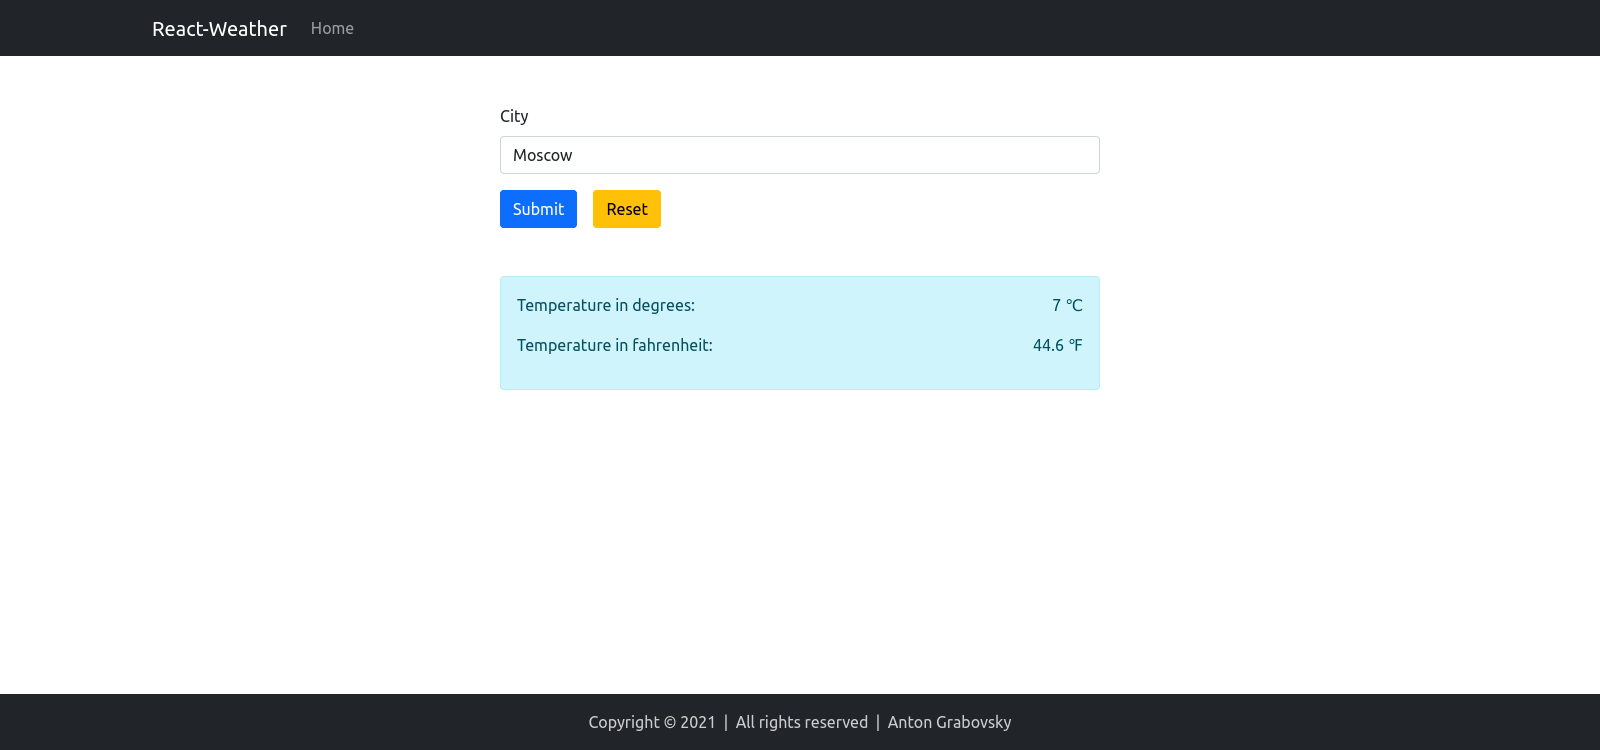
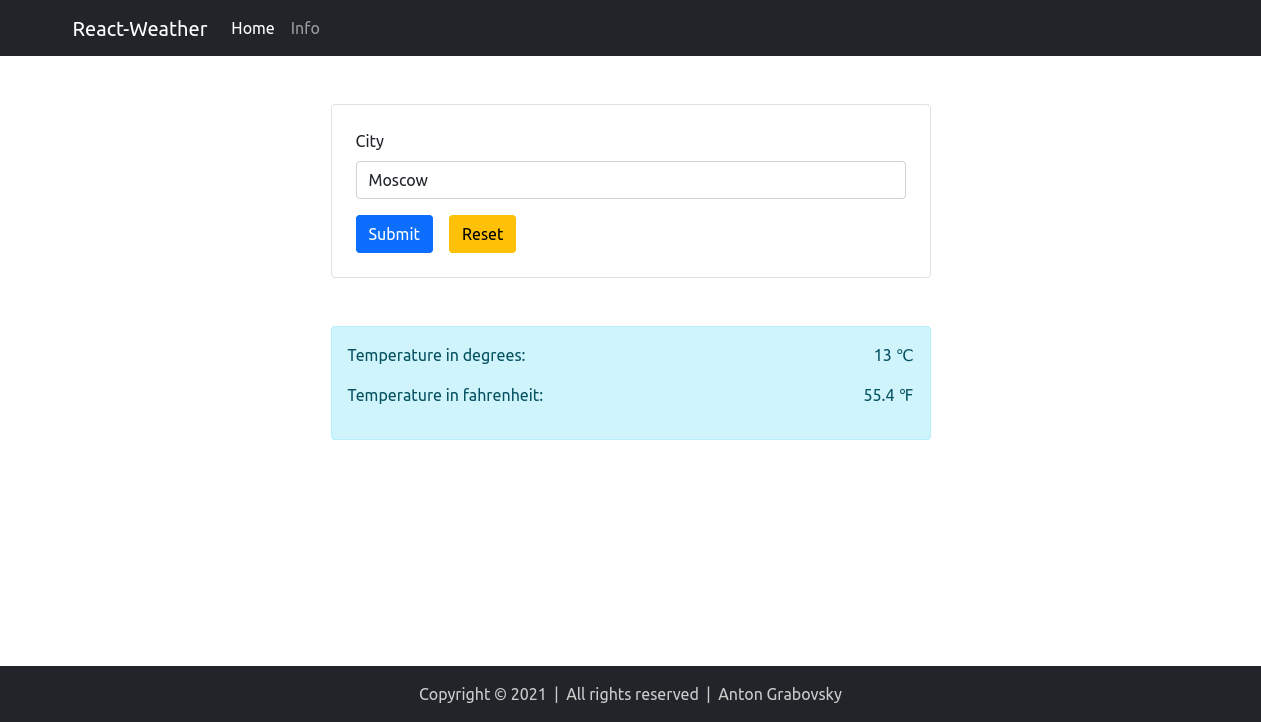
Add info page

Changed region(s): [[0.2474, 0.1219, 0.7423, 0.6094], [0.3402, 0.9446, 0.6804, 0.9751], [0.0619, 0.0305, 0.2474, 0.0609]]

diff --git a/src/components/Form/index.js b/src/components/Form/index.js
@@ -1,5 +1,4 @@
 import React, { useState, useRef } from 'react';
-import styles from './Form.module.css';
 import FormBootstrap from 'react-bootstrap/Form';
 import Button from 'react-bootstrap/Button';
 import { Result } from '../Result';
@@ -52,21 +51,23 @@ function Form(props) {
   }
 
   return (
-    <FormBootstrap className={styles.form}>
-      <FormBootstrap.Group className="mb-3" controlId="city">
-        <FormBootstrap.Label>City</FormBootstrap.Label>
-        <FormBootstrap.Control ref={inputRef} type="text" placeholder="Enter city" />
-      </FormBootstrap.Group>
+    <div className="max-width-600_center">
+      <FormBootstrap className="border rounded p-4">
+        <FormBootstrap.Group className="mb-3" controlId="city">
+          <FormBootstrap.Label>City</FormBootstrap.Label>
+          <FormBootstrap.Control ref={inputRef} type="text" placeholder="Enter city" />
+        </FormBootstrap.Group>
 
-      <Button onClick={handleSubmit} variant="primary" type="submit">
-        Submit
-      </Button>
-      <Button onClick={handleReset} variant="warning" className="mx-3" type="reset">
-        Reset
-      </Button>
-      
+        <Button onClick={handleSubmit} variant="primary" type="submit">
+          Submit
+        </Button>
+        <Button onClick={handleReset} variant="warning" className="mx-3" type="reset">
+          Reset
+        </Button>
+        
+      </FormBootstrap>
       <Result isLoading={isLoading} error={error} temperature={temperature} />
-    </FormBootstrap>
+    </div>
   );
 }
 

diff --git a/src/components/Navbar/index.js b/src/components/Navbar/index.js
@@ -1,8 +1,24 @@
 import React from 'react';
 import NavbarBootstrap from 'react-bootstrap/Navbar';
 import { Container, Nav } from 'react-bootstrap';
+import { Link, useLocation } from 'react-router-dom';
+
+const isActive = (location, path) => {
+  console.log(location.pathname)
+  if (path === '/' && location.pathname === '/') {
+    return true;
+  } else {
+    return path.length > 1 && location.pathname.startsWith(path);
+  }
+}
 
 function Navbar(props) {
+  const location = useLocation();
+  const links = [
+    { title: 'Home', to: '/', active: isActive(location, '/') },
+    { title: 'Info', to: '/info', active: isActive(location, '/info') }
+  ];
+
   return (
     <NavbarBootstrap bg="dark" variant="dark" expand="sm">
       <Container>
@@ -10,7 +26,15 @@ function Navbar(props) {
         <NavbarBootstrap.Toggle aria-controls="basic-navbar-nav" />
         <NavbarBootstrap.Collapse id="basic-navbar-nav">
           <Nav className="me-auto">
-            <Nav.Link href="/">Home</Nav.Link>
+            {links.map(link => (
+              <Link 
+                key={link.title}
+                className={`nav-link ${link.active ? 'active' : null}`}
+                to={link.to}
+              >
+                { link.title }
+              </Link>
+            ))}
           </Nav>
         </NavbarBootstrap.Collapse>
       </Container>

diff --git a/src/containers/App/index.js b/src/containers/App/index.js
@@ -1,20 +1,33 @@
 import 'bootstrap/dist/css/bootstrap.min.css';
 import './styles.css';
 import { Navbar } from '../../components/Navbar';
-import { Form } from '../../components/Form';
 import { Footer } from '../../components/Footer';
+import {
+  BrowserRouter as Router, 
+  Switch,
+  Route
+} from 'react-router-dom';
+import { HomePage } from '../../pages/HomePage';
+import { InfoPage } from '../../pages/InfoPage';
 
 function App() {
   return (
-    <>
+    <Router>
       <header>
         <Navbar />
       </header>
       <main className="container mt-5">
-        <Form />
+        <Switch>
+          <Route exact path="/">
+            <HomePage />
+          </Route>
+          <Route path="/info">
+            <InfoPage />
+          </Route>
+        </Switch>
       </main>
       <Footer />
-    </>
+    </Router>
   );
 }
 

diff --git a/src/pages/InfoPage.js b/src/pages/InfoPage.js
@@ -1,0 +1,20 @@
+import React from 'react';
+import Accordion from 'react-bootstrap/Accordion';
+
+const InfoPage = props => {
+  return (
+    <div className="max-width-600_center">
+      <Accordion defaultActiveKey="0">
+        <Accordion.Item eventKey="0">
+          <Accordion.Header>Weather source</Accordion.Header>
+          <Accordion.Body>
+            <h4>Free Weather API</h4>
+            <a href="https://www.weatherapi.com/">https://www.weatherapi.com/</a>
+          </Accordion.Body>
+        </Accordion.Item>
+      </Accordion>    
+    </div>
+  );
+};
+
+export { InfoPage };

diff --git a/src/containers/App/styles.css b/src/containers/App/styles.css
@@ -20,3 +20,12 @@ main {
 }
 
 /************************/
+
+/** utils **/
+
+.max-width-600_center {
+  max-width: 600px;
+  margin: 0 auto;
+}
+
+/***********/

diff --git a/src/pages/HomePage.js b/src/pages/HomePage.js
@@ -1,0 +1,8 @@
+import React from 'react';
+import { Form } from '../components/Form';
+
+const HomePage = props => (
+  <Form />
+);
+
+export { HomePage };
